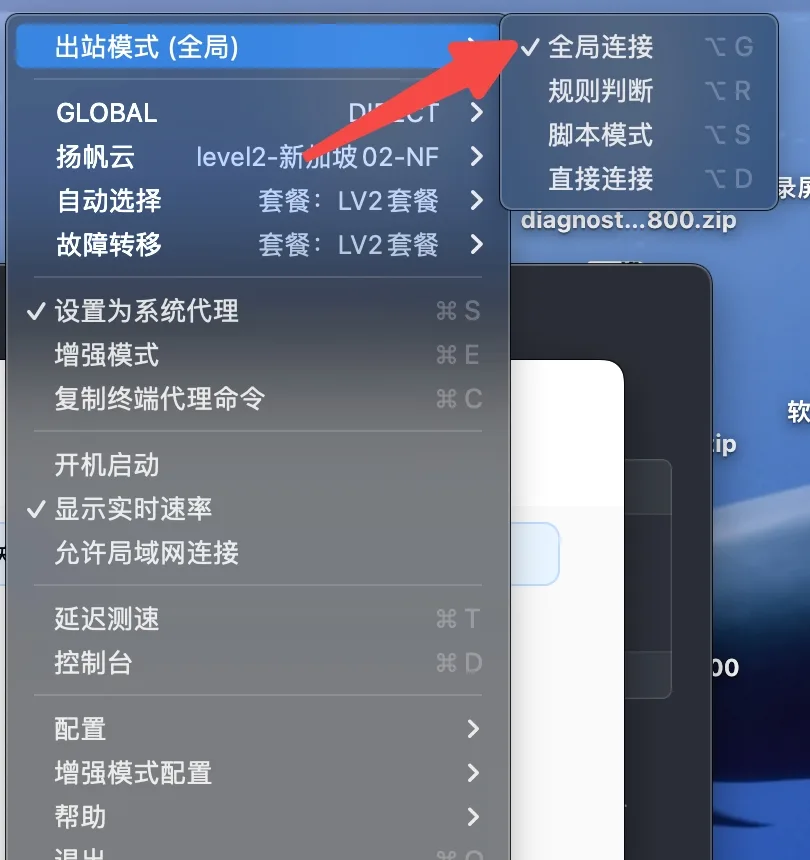
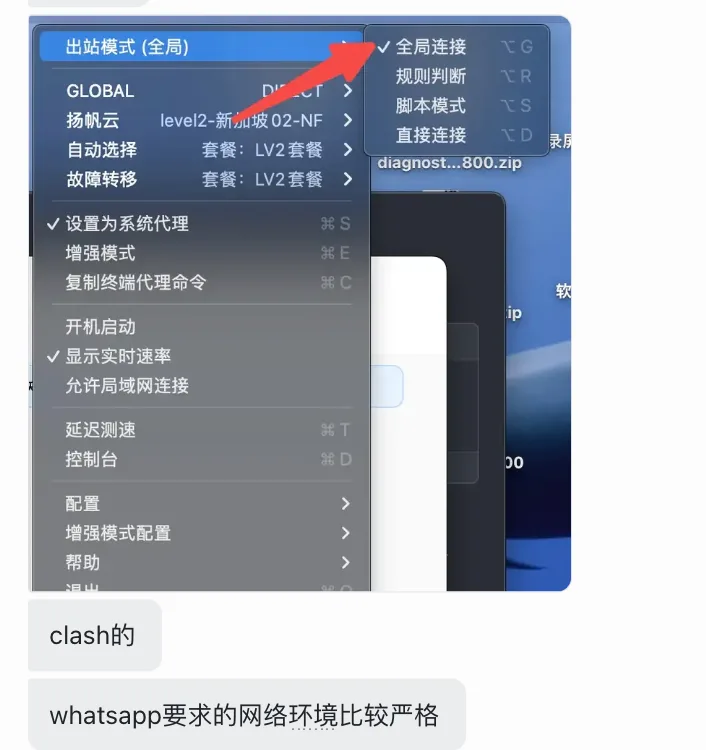
docs: add WhatsApp QR code troubleshooting tip (proxy global mode)
Add FAQ entry explaining that WhatsApp requires a stable network connection
to generate the QR code, and that proxy users should switch to global/TUN
mode (e.g. Clash global mode). Includes screenshot. Covers zh/en/ja.

Made-with: Cursor

diff --git a/docs/en/guide/channels/whatsapp.md b/docs/en/guide/channels/whatsapp.md
@@ -1,16 +1,16 @@
 # WhatsApp
 
-Just scan a QR code with your phone to connect your personal WhatsApp to nexu — takes less than 2 minutes.
+Connect your personal WhatsApp to nexu with a single QR scan — takes less than 2 minutes.
 
-## Step 1: Choose the WhatsApp channel
+## Step 1: Select the WhatsApp Channel
 
 Open the nexu client and click **WhatsApp** in the "Choose a channel to get started" section.
 
-![Choose WhatsApp channel](/assets/whatsapp/step1-choose-whatsapp.webp)
+![Select WhatsApp channel](/assets/whatsapp/step1-choose-whatsapp.webp)
 
-## Step 2: Scan the QR code
+## Step 2: Scan the QR Code
 
-1. In the "Connect WhatsApp" dialog, click the "Scan WhatsApp QR" button.
+1. In the "Connect WhatsApp" dialog, click the **Scan WhatsApp QR** button.
 
 ![Click Scan WhatsApp QR](/assets/whatsapp/step2-scan-qr-button.webp)
 
@@ -18,21 +18,21 @@ Open the nexu client and click **WhatsApp** in the "Choose a channel to get star
 
 ![Waiting for scan](/assets/whatsapp/step2-waiting-scan.webp)
 
-3. On your phone, open **WhatsApp**, tap the "Yourself" tab at the bottom, then tap the QR code icon in the top-right corner.
+3. Open **WhatsApp** on your phone, tap the "You" tab at the bottom, then tap the QR code icon in the top right.
 
 ![Tap QR code icon on phone](/assets/whatsapp/step3-phone-settings.webp)
 
-4. On the QR code page, tap the "Scan" button at the bottom.
+4. On the QR code page, tap the **Scan** button at the bottom.
 
-![Tap Scan button](/assets/whatsapp/step3-phone-scan-button.webp)
+![Tap scan button](/assets/whatsapp/step3-phone-scan-button.webp)
 
-5. Point your phone at the QR code on your computer screen. Once scanned, tap "Confirm" to complete the link.
+5. Point your phone at the QR code on your computer screen. Once scanned, tap **OK** to confirm the link.
 
-![Confirm linking](/assets/whatsapp/step3-phone-confirm.webp)
+![Confirm link](/assets/whatsapp/step3-phone-confirm.webp)
 
-## Step 3: Start chatting
+## Step 3: Start Chatting
 
-Once the QR code is scanned, the WhatsApp channel will show as connected. Click "Chat" to jump to WhatsApp and start talking to your Agent 🎉
+Once the QR code is scanned, the WhatsApp channel will show as connected. Click **Chat** to start a conversation with your Agent 🎉
 
 ---
 
@@ -50,16 +50,16 @@ For Clash: click the menu bar icon → Outbound Mode → **Global**.
 
 **Q: Do I need a public server?**
 
-No. nexu connects via the WhatsApp Web protocol — no public IP or callback URL required.
+No. nexu connects directly via the WhatsApp Web protocol — no public IP or callback URL required.
 
 **Q: Do I need a WhatsApp Business account?**
 
-No. A personal WhatsApp account works just fine.
+No. A personal WhatsApp account works fine.
 
 **Q: Will this affect my normal WhatsApp usage?**
 
 No. nexu connects as a linked device, exactly like using WhatsApp Web on a computer. Your phone continues to work normally.
 
-**Q: What if my computer is off — can the Agent still reply?**
+**Q: Can the Agent reply when my computer is off?**
 
-The nexu client needs to be running. As long as nexu is running in the background (and your computer isn't asleep), the Agent will be online 24/7 to reply to WhatsApp messages.
+nexu needs to be running. As long as the nexu client is active in the background (and your computer isn't asleep), the Agent can reply to WhatsApp messages 24/7.
